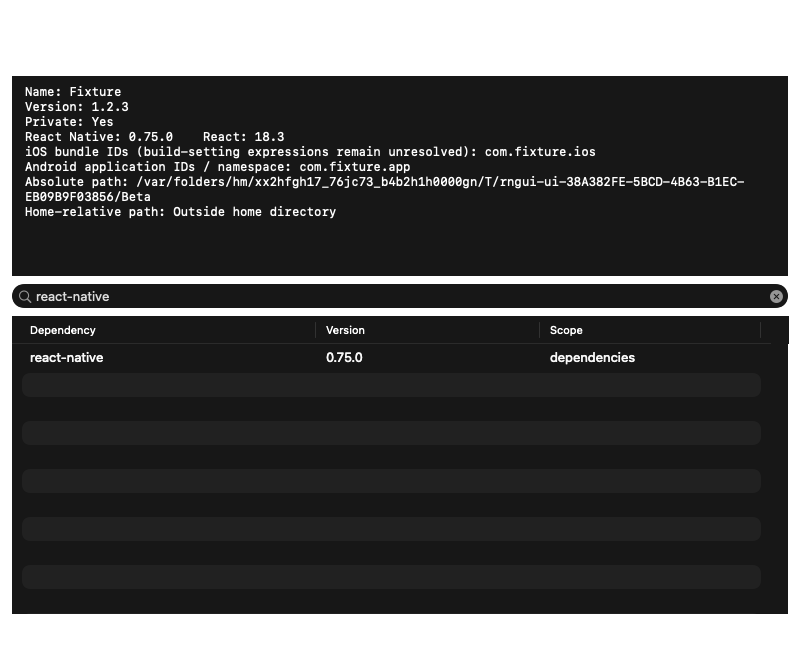
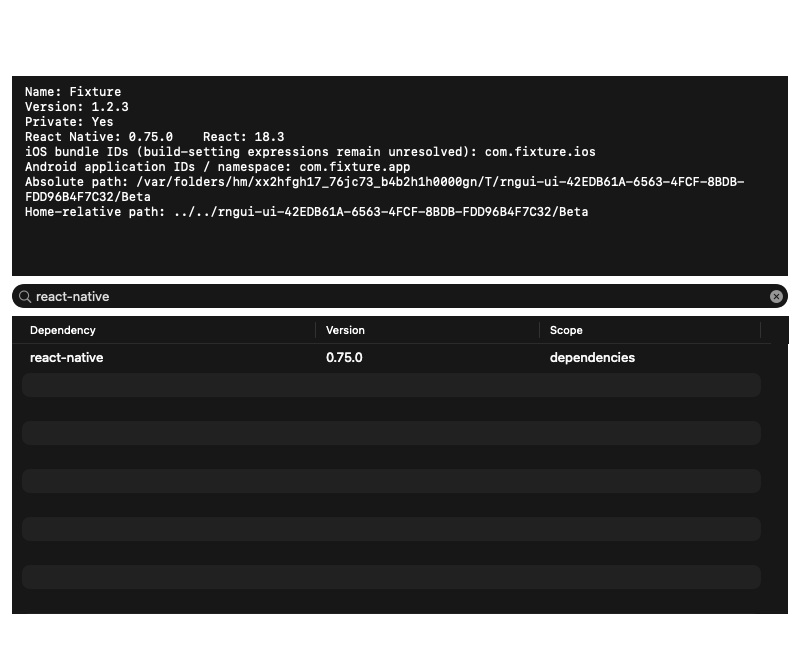
fix: show usable relative paths for projects outside the home folder

Changed region(s): [[0.2188, 0.2769, 0.7812, 0.3385], [0.0312, 0.2769, 0.1562, 0.3077], [0.8125, 0.2769, 0.9062, 0.3077]]

diff --git a/ReactNativeGUITools/Modal/ProjectMetadata.swift b/ReactNativeGUITools/Modal/ProjectMetadata.swift
@@ -55,7 +55,10 @@ struct ProjectMetadata {
         let full = root.standardizedFileURL.path
         let components = root.standardizedFileURL.pathComponents
         let homeComponents = URL(fileURLWithPath: home).standardizedFileURL.pathComponents
-        let relative = components.starts(with: homeComponents) ? "~/" + components.dropFirst(homeComponents.count).joined(separator: "/") : "Outside home directory"
+        let common = zip(components, homeComponents).prefix { $0 == $1 }.count
+        let relative = components.starts(with: homeComponents)
+            ? "~/" + components.dropFirst(homeComponents.count).joined(separator: "/")
+            : (Array(repeating: "..", count: homeComponents.count - common) + components.dropFirst(common)).joined(separator: "/")
         let summary = """
         Name: \(package["name"] as? String ?? "Not declared")
         Version: \(package["version"] as? String ?? "Not declared")
